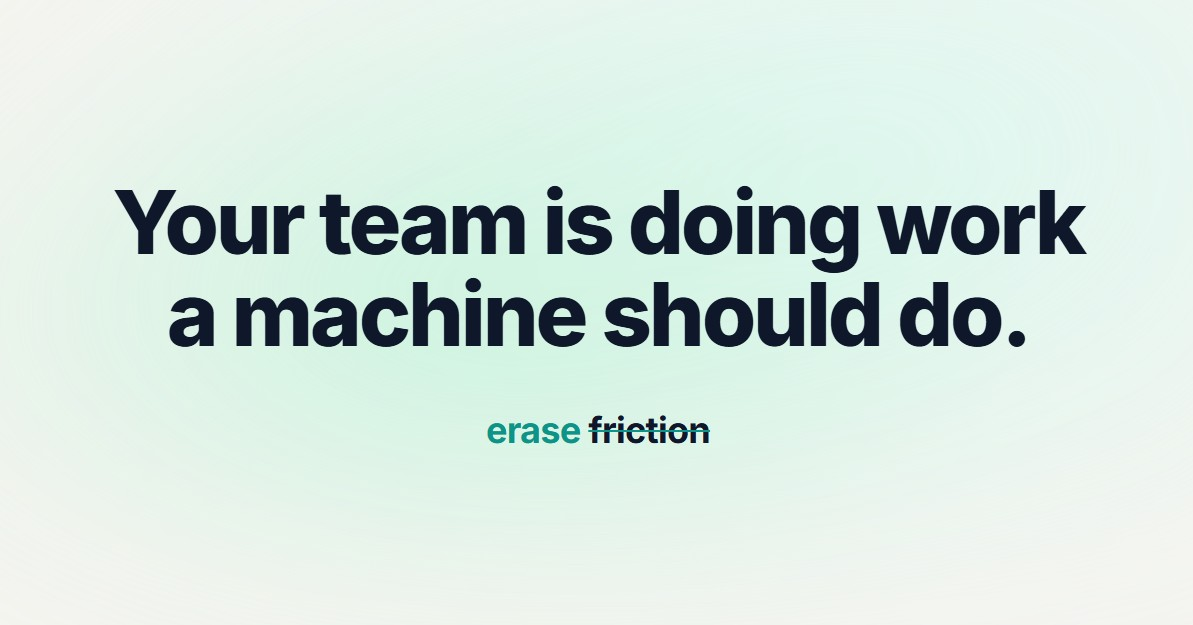
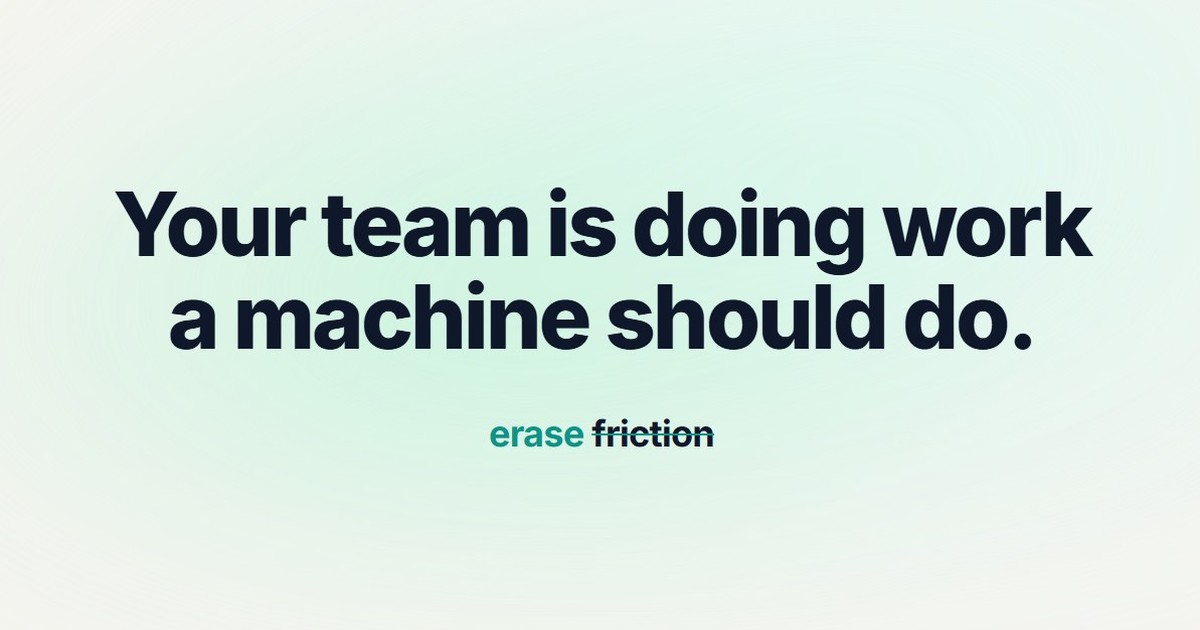
Fix social preview cards across the site
Only the homepage defined openGraph, and Next.js replaces rather than merges
that object — so /privacy, /terms and /thank-you emitted no og:image or
twitter:card at all, and sharing them rendered a bare URL.

- Site-wide defaults now live in the root layout, so every page (including
  any added later) inherits a card by default.
- lib/seo.ts holds the shared image + a socialMeta() builder, since a page
  that wants its own og:title/url must restate the shared bits or lose them.
- Legal pages get their own title, description and og:url.
- Adds the tags that were missing everywhere: og:site_name, og:locale,
  og:image:width/height, og:image:alt, twitter:image:alt. Dimensions let
  platforms lay out the card before the image finishes downloading; alt is
  read by screen readers on shared posts.
- og-image.jpg resized 1193x625 -> exactly 1200x630 (and 67KB -> 60KB).

diff --git a/app/page.tsx b/app/page.tsx
@@ -8,21 +8,8 @@ export const metadata: Metadata = {
   description:
     "erase friction builds custom software, workflow automations, and AI solutions that eliminate the manual work dragging your team down.",
   alternates: { canonical: "/" },
-  openGraph: {
-    type: "website",
-    url: "/",
-    title: "erase friction — Custom Software, Automation & AI Solutions",
-    description:
-      "erase friction builds custom software, workflow automations, and AI solutions that eliminate the manual work dragging your team down.",
-    images: ["/og-image.jpg"],
-  },
-  twitter: {
-    card: "summary_large_image",
-    title: "erase friction — Custom Software, Automation & AI Solutions",
-    description:
-      "erase friction builds custom software, workflow automations, and AI solutions that eliminate the manual work dragging your team down.",
-    images: ["/og-image.jpg"],
-  },
+  // openGraph/twitter come from the root layout — the defaults already describe
+  // this page, so overriding here would only risk them drifting apart.
 };
 
 const schema = {

diff --git a/lib/seo.ts b/lib/seo.ts
@@ -1,0 +1,43 @@
+import type { Metadata } from "next";
+
+export const OG_IMAGE = {
+  url: "/og-image.jpg",
+  width: 1200,
+  height: 630,
+  alt: "erase friction — Your team is doing work a machine should do.",
+};
+
+export const SITE_NAME = "erase friction";
+
+/**
+ * Next.js REPLACES the openGraph/twitter objects when a page defines its own,
+ * so every page that wants a page-specific title or url has to restate the
+ * shared bits. This keeps that in one place.
+ */
+export function socialMeta({
+  title,
+  description,
+  path,
+}: {
+  title: string;
+  description: string;
+  path: string;
+}): Pick<Metadata, "openGraph" | "twitter"> {
+  return {
+    openGraph: {
+      type: "website",
+      siteName: SITE_NAME,
+      locale: "en_US",
+      url: path,
+      title,
+      description,
+      images: [OG_IMAGE],
+    },
+    twitter: {
+      card: "summary_large_image",
+      title,
+      description,
+      images: [OG_IMAGE],
+    },
+  };
+}

diff --git a/app/layout.tsx b/app/layout.tsx
@@ -1,10 +1,18 @@
 import type { Metadata } from "next";
 import Script from "next/script";
+import { socialMeta } from "@/lib/seo";
 import "./globals.css";
 
+const HOME_TITLE = "erase friction — Custom Software, Automation & AI Solutions";
+const HOME_DESC =
+  "erase friction builds custom software, workflow automations, and AI solutions that eliminate the manual work dragging your team down.";
+
+// Site-wide defaults — any page that doesn't set its own inherits these, so a
+// shared link always renders a card instead of a bare URL.
 export const metadata: Metadata = {
   metadataBase: new URL("https://erasefriction.com"),
   icons: { icon: { url: "/favicon.svg", type: "image/svg+xml" } },
+  ...socialMeta({ title: HOME_TITLE, description: HOME_DESC, path: "/" }),
 };
 
 const GA_ID = "G-V6HBH3FB5B";

diff --git a/app/terms/page.tsx b/app/terms/page.tsx
@@ -1,11 +1,16 @@
 import type { Metadata } from "next";
 import LegalShell from "@/components/LegalShell";
+import { socialMeta } from "@/lib/seo";
+
+const TITLE = "Terms of Service — erase friction";
+const DESC =
+  "The terms that govern your use of erasefriction.com, including our contact form, content ownership, and limits of liability.";
 
 export const metadata: Metadata = {
-  title: "Terms of Service — erase friction",
-  description:
-    "The terms that govern your use of erasefriction.com, including our contact form, content ownership, and limits of liability.",
+  title: TITLE,
+  description: DESC,
   alternates: { canonical: "/terms" },
+  ...socialMeta({ title: TITLE, description: DESC, path: "/terms" }),
 };
 
 export default function Terms() {

diff --git a/app/privacy/page.tsx b/app/privacy/page.tsx
@@ -1,11 +1,16 @@
 import type { Metadata } from "next";
 import LegalShell from "@/components/LegalShell";
+import { socialMeta } from "@/lib/seo";
+
+const TITLE = "Privacy Policy — erase friction";
+const DESC =
+  "How erase friction collects, uses, stores, and protects the information you share through erasefriction.com.";
 
 export const metadata: Metadata = {
-  title: "Privacy Policy — erase friction",
-  description:
-    "How erase friction collects, uses, stores, and protects the information you share through erasefriction.com.",
+  title: TITLE,
+  description: DESC,
   alternates: { canonical: "/privacy" },
+  ...socialMeta({ title: TITLE, description: DESC, path: "/privacy" }),
 };
 
 export default function Privacy() {
